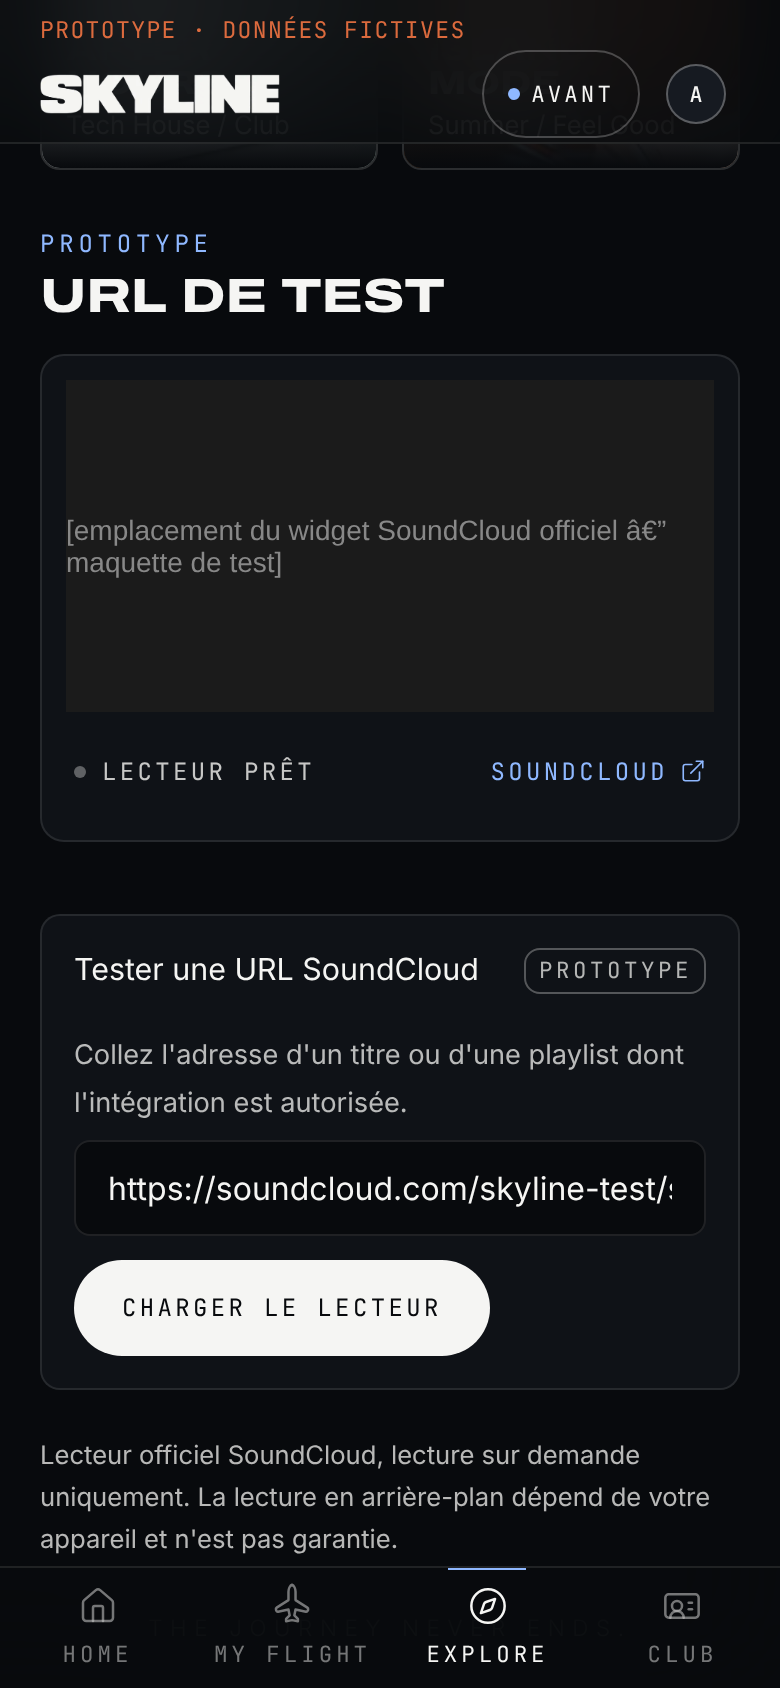
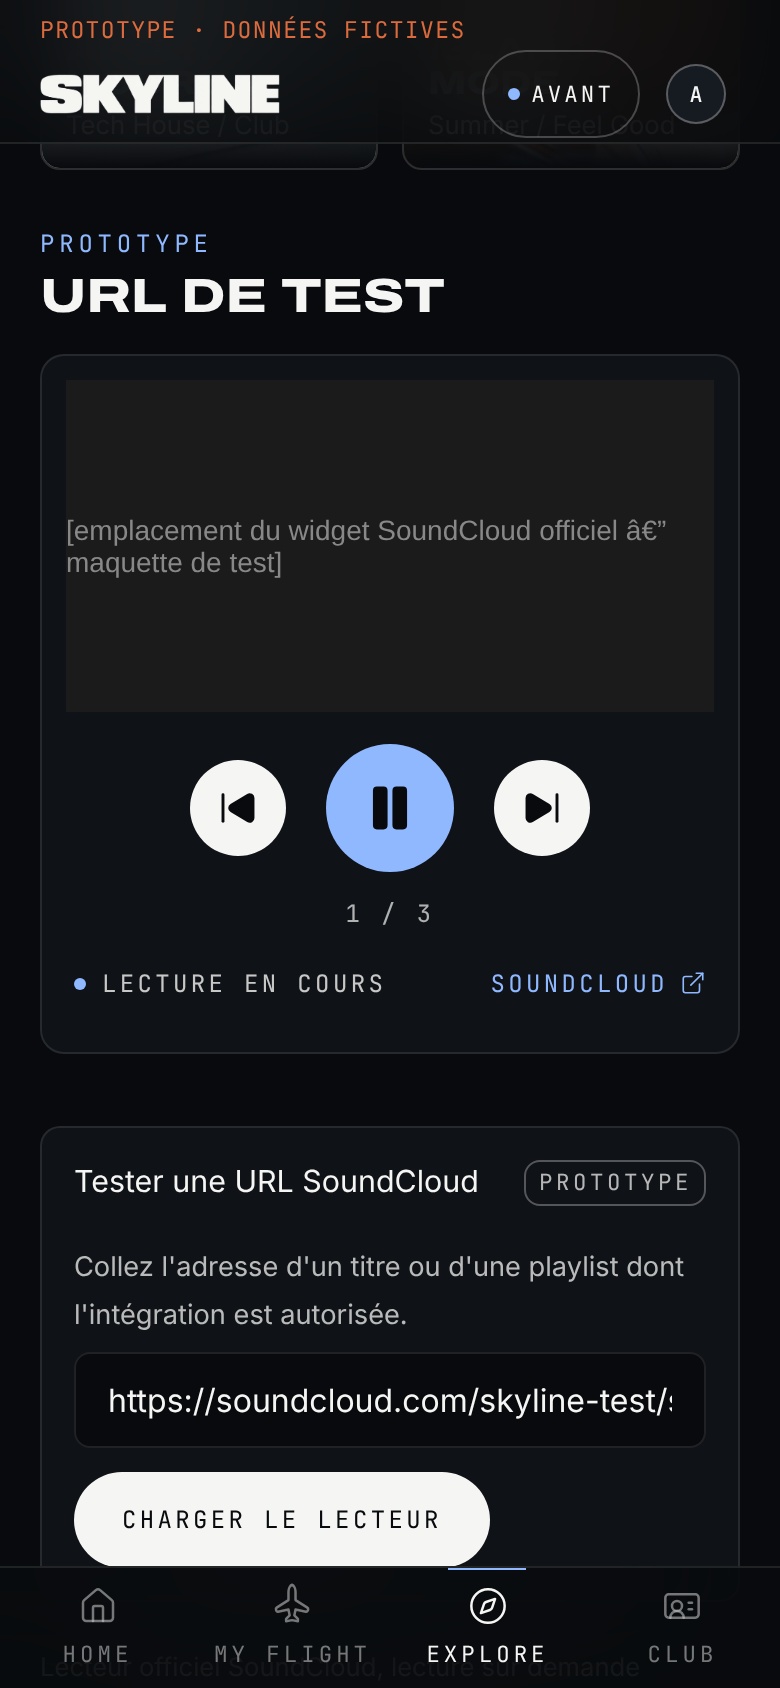
feat(sound): commandes précédent / lecture-pause / suivant pilotant le widget officiel
Claude-Session: https://claude.ai/code/session_018yowc2fZK8CGvXNuJgwN62

diff --git a/src/components/v3/SoundCloudEmbed.tsx b/src/components/v3/SoundCloudEmbed.tsx
@@ -1,9 +1,13 @@
 "use client";
 import { useEffect, useRef, useState } from "react";
-import { ExternalLink } from "lucide-react";
+import { ExternalLink, Pause, Play, SkipBack, SkipForward } from "lucide-react";
 import { embedHeight, embedSrc, type EmbedKind } from "@/domain/sound";
 
-type SCWidget = { bind: (e: string, cb: () => void) => void; unbind: (e: string) => void };
+type SCWidget = {
+  bind: (e: string, cb: () => void) => void; unbind: (e: string) => void;
+  play: () => void; pause: () => void; next: () => void; prev: () => void;
+  getSounds: (cb: (sounds: unknown[]) => void) => void; getCurrentSoundIndex: (cb: (i: number) => void) => void;
+};
 type SCApi = { Widget: ((el: HTMLIFrameElement) => SCWidget) & { Events: Record<"READY" | "PLAY" | "PAUSE" | "FINISH" | "ERROR", string> } };
 declare global { interface Window { SC?: SCApi } }
 
@@ -28,7 +32,10 @@ const label: Record<Status, string> = { loading: "Chargement du lecteur SoundClo
  */
 export function SoundCloudEmbed({ url, kind, title, onPlay }: { url: string; kind: EmbedKind; title: string; onPlay?: () => void }) {
   const frame = useRef<HTMLIFrameElement>(null);
+  const [ctl, setCtl] = useState<SCWidget | null>(null); // un seul widget, piloté par les méthodes officielles
   const [status, setStatus] = useState<Status>("loading");
+  const [tracks, setTracks] = useState<number | null>(null); // null = pas encore connu
+  const [index, setIndex] = useState(0);
   const onPlayRef = useRef(onPlay); useEffect(() => { onPlayRef.current = onPlay; });
 
   useEffect(() => {
@@ -36,17 +43,26 @@ export function SoundCloudEmbed({ url, kind, title, onPlay }: { url: string; kin
     const timer = setTimeout(() => { if (!cancelled) setStatus((s) => (s === "loading" ? "error" : s)); }, 15000);
     loadApi().then((sc) => {
       if (cancelled || !frame.current) return;
-      widget = sc.Widget(frame.current); events = sc.Widget.Events;
-      widget.bind(events.READY, () => { clearTimeout(timer); if (!cancelled) setStatus((s) => (s === "loading" || s === "error" ? "ready" : s)); });
-      widget.bind(events.PLAY, () => { if (!cancelled) { setStatus("playing"); onPlayRef.current?.(); } });
-      widget.bind(events.PAUSE, () => { if (!cancelled) setStatus("paused"); });
-      widget.bind(events.FINISH, () => { if (!cancelled) setStatus("finished"); });
-      widget.bind(events.ERROR, () => { if (!cancelled) setStatus("error"); });
+      const w = widget = sc.Widget(frame.current); setCtl(w); events = sc.Widget.Events;
+      const sync = () => { w.getCurrentSoundIndex((i) => { if (!cancelled && Number.isFinite(i)) setIndex(i); }); };
+      w.bind(events.READY, () => {
+        clearTimeout(timer); if (cancelled) return;
+        setStatus((s) => (s === "loading" || s === "error" ? "ready" : s));
+        w.getSounds((list) => { if (!cancelled) setTracks(Array.isArray(list) ? list.length : 0); }); sync();
+      });
+      w.bind(events.PLAY, () => { if (!cancelled) { setStatus("playing"); onPlayRef.current?.(); sync(); } });
+      w.bind(events.PAUSE, () => { if (!cancelled) setStatus("paused"); });
+      w.bind(events.FINISH, () => { if (!cancelled) setStatus("finished"); });
+      w.bind(events.ERROR, () => { if (!cancelled) setStatus("error"); });
     }).catch(() => { clearTimeout(timer); if (!cancelled) setStatus("error"); });
     return () => { cancelled = true; clearTimeout(timer); if (widget && events) for (const e of Object.values(events)) try { widget.unbind(e); } catch { /* iframe déjà détachée */ } };
   }, [url]);
 
   const h = embedHeight(kind);
+  const usable = (status === "ready" || status === "playing" || status === "paused" || status === "finished") && (tracks ?? 0) > 0;
+  const multi = usable && (tracks ?? 0) > 1;
+  const playing = status === "playing";
+  const round = "grid shrink-0 place-items-center rounded-full transition active:scale-95 disabled:opacity-35 disabled:active:scale-100";
   return (
     <div className="rounded-[12px] border border-line bg-surface-1 p-3">
       <div className="relative" style={{ minHeight: h }}>
@@ -60,7 +76,15 @@ export function SoundCloudEmbed({ url, kind, title, onPlay }: { url: string; kin
           </div>
         )}
       </div>
-      <div className="mt-2 flex items-center justify-between gap-3 px-1">
+      <div role="group" aria-label="Commandes de lecture" className="mt-4 flex items-center justify-center gap-5">
+        <button type="button" onClick={() => ctl?.prev()} disabled={!multi} aria-label="Titre précédent" className={`${round} size-12 bg-cloud text-jet`}><SkipBack size={20} strokeWidth={1.75} aria-hidden fill="currentColor" /></button>
+        <button type="button" onClick={() => (playing ? ctl?.pause() : ctl?.play())} disabled={!usable} aria-label={playing ? "Pause" : "Lecture"} className={`${round} size-16 bg-[#8FB8FF] text-jet`}>
+          {playing ? <Pause size={26} strokeWidth={1.75} aria-hidden fill="currentColor" /> : <Play size={26} strokeWidth={1.75} aria-hidden fill="currentColor" className="translate-x-0.5" />}
+        </button>
+        <button type="button" onClick={() => ctl?.next()} disabled={!multi} aria-label="Titre suivant" className={`${round} size-12 bg-cloud text-jet`}><SkipForward size={20} strokeWidth={1.75} aria-hidden fill="currentColor" /></button>
+      </div>
+      <p className="mt-3 text-center font-mono text-[0.75rem] tabular-nums tracking-[0.14em] text-cloud/70" aria-live="off">{multi ? `${index + 1} / ${tracks}` : "\u00A0"}</p>
+      <div className="mt-1 flex items-center justify-between gap-3 px-1">
         <p role="status" aria-live="polite" className="flex items-center gap-2 font-mono text-[0.75rem] uppercase tracking-[0.14em] text-cloud/80"><span aria-hidden className={`size-1.5 rounded-full ${status === "playing" ? "bg-sky" : status === "error" ? "bg-sunset" : "bg-cloud/35"}`} />{label[status]}</p>
         <a href={url} target="_blank" rel="noopener noreferrer" className="inline-flex min-h-11 items-center gap-1.5 font-mono text-[0.75rem] uppercase tracking-[0.14em] text-sky">SoundCloud <ExternalLink size={13} strokeWidth={1.5} aria-hidden /></a>
       </div>

diff --git a/docs/skyline-sound/README.md b/docs/skyline-sound/README.md
@@ -30,3 +30,8 @@ Coller une URL de playlist SoundCloud embarquable dans `src/data/sound.ts` (ou d
 URL renseignée : `https://soundcloud.com/luk_music/sets/afro-house-remix-songs-afro` (playlist « AFRO HOUSE REMIX SONGS » du compte LUK, trouvée par recherche web ; l'adresse vient du paramètre `in=` des pages de ses mixes).
 **Non vérifiés depuis cet environnement (SoundCloud bloqué)** : que la playlist soit toujours en ligne, que le propriétaire autorise l'intégration, que la lecture démarre. Ces mixes sont majoritairement des remixes de titres connus (Tiësto, Guetta, Rihanna…) : **inadaptés à une production** (droits). Les trois autres collections restent à `null`.
 À tester à la main sur iPhone : voir la liste du message de livraison.
+
+## Commandes SKYLINE (précédent / lecture-pause / suivant)
+Boutons branchés sur l'API officielle du widget (`prev()`, `play()`/`pause()`, `next()`), état synchronisé sur les événements réels (`READY`, `PLAY`, `PAUSE`, `FINISH`, `ERROR`) ; nombre de pistes via `getSounds()`, position via `getCurrentSoundIndex()` (compteur « 1 / 3 » pour une playlist). Désactivés tant que le widget n'est pas prêt, en cas d'erreur, ou sans piste ; précédent/suivant désactivés pour un morceau unique. Un seul widget/iframe, clé par URL. Widget officiel toujours visible.
+Testé avec un **faux widget** (SoundCloud bloqué ici) : appels aux méthodes, compteur, états, un seul lecteur. **Non testé avec le vrai SoundCloud ni sur Safari iPhone / PWA.**
+Limites à vérifier sur iPhone : (1) le premier démarrage doit venir d'un geste utilisateur ; `play()` appelé par programmation depuis un bouton de la page est un geste de la page, mais Safari peut refuser une lecture déclenchée dans une iframe cross-origin — si le premier appui sur notre bouton ne lance rien, appuyer une fois sur le bouton du widget SoundCloud puis réessayer, et nous le signaler ; (2) précédent au début d'une playlist : comportement décidé par SoundCloud (retour au début du titre) ; (3) lecture continue entre titres écran verrouillé / PWA : non garantie.
